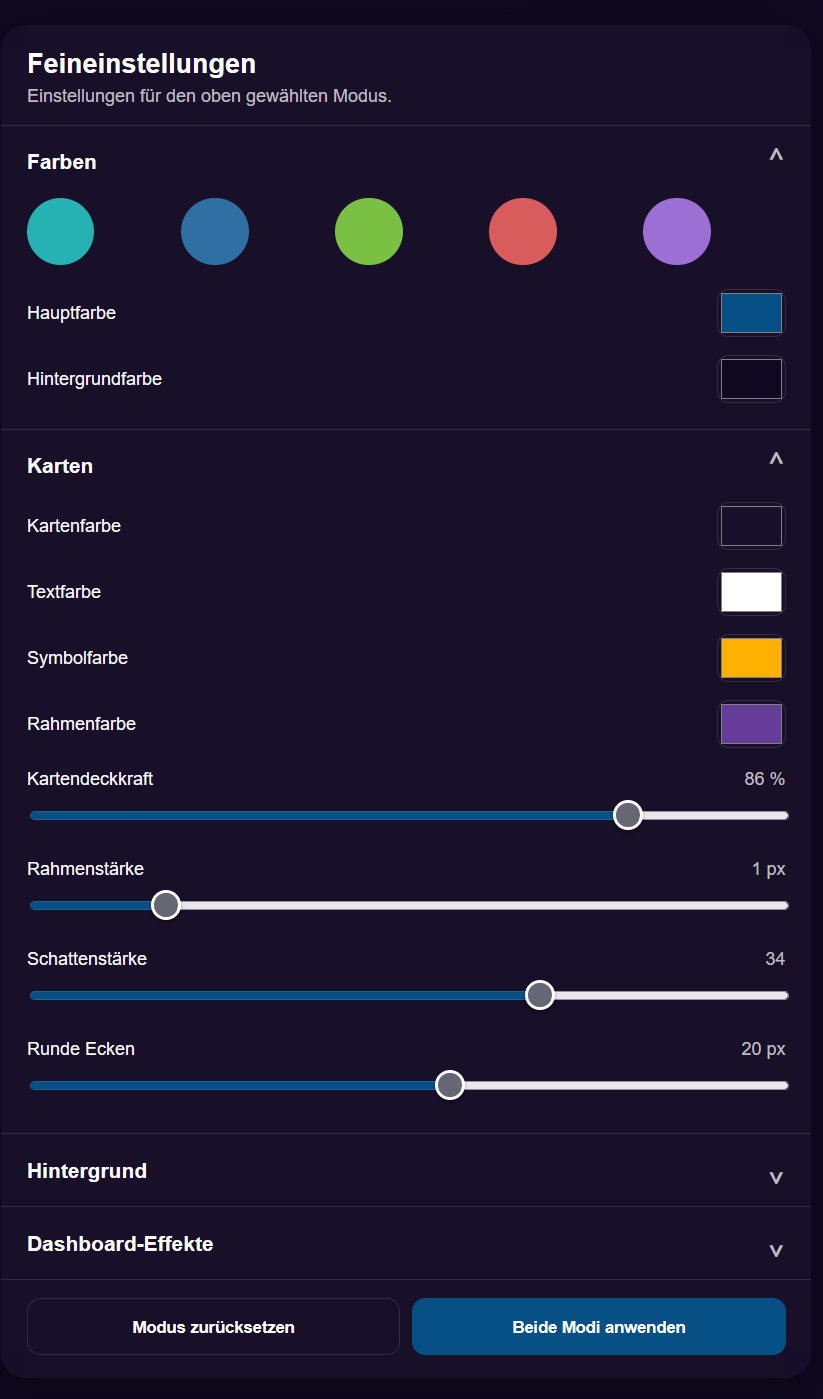
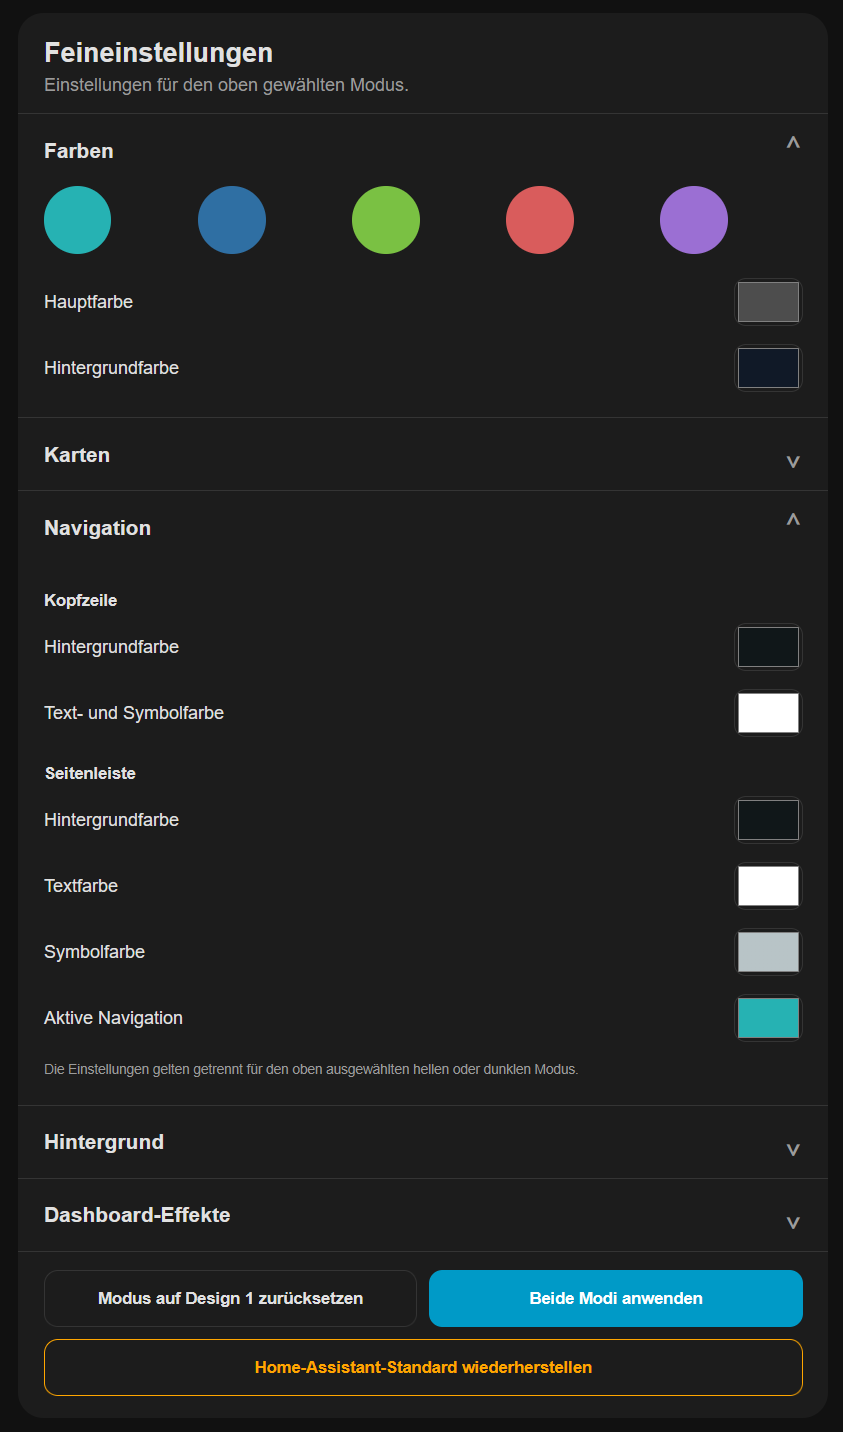
Update Theme Studio screenshots

diff --git a/README.md b/README.md
@@ -42,9 +42,9 @@ Theme Studio ist eine benutzerdefinierte Home-Assistant-Integration zum Erstelle
 
 ### Feineinstellungen
 
-| Farben und Karten | Kartendesign |
+| Farben und Navigation | Kartendesign |
 | --- | --- |
-| ![Farben und Karteneinstellungen](docs/images/fine-settings-overview.png) | ![Geöffnete Karteneinstellungen](docs/images/fine-settings-cards.png) |
+| ![Farben und Navigationseinstellungen](docs/images/fine-settings-overview.png) | ![Geöffnete Karteneinstellungen](docs/images/fine-settings-cards.png) |
 
 | Hintergrund | Dashboard-Effekte |
 | --- | --- |
